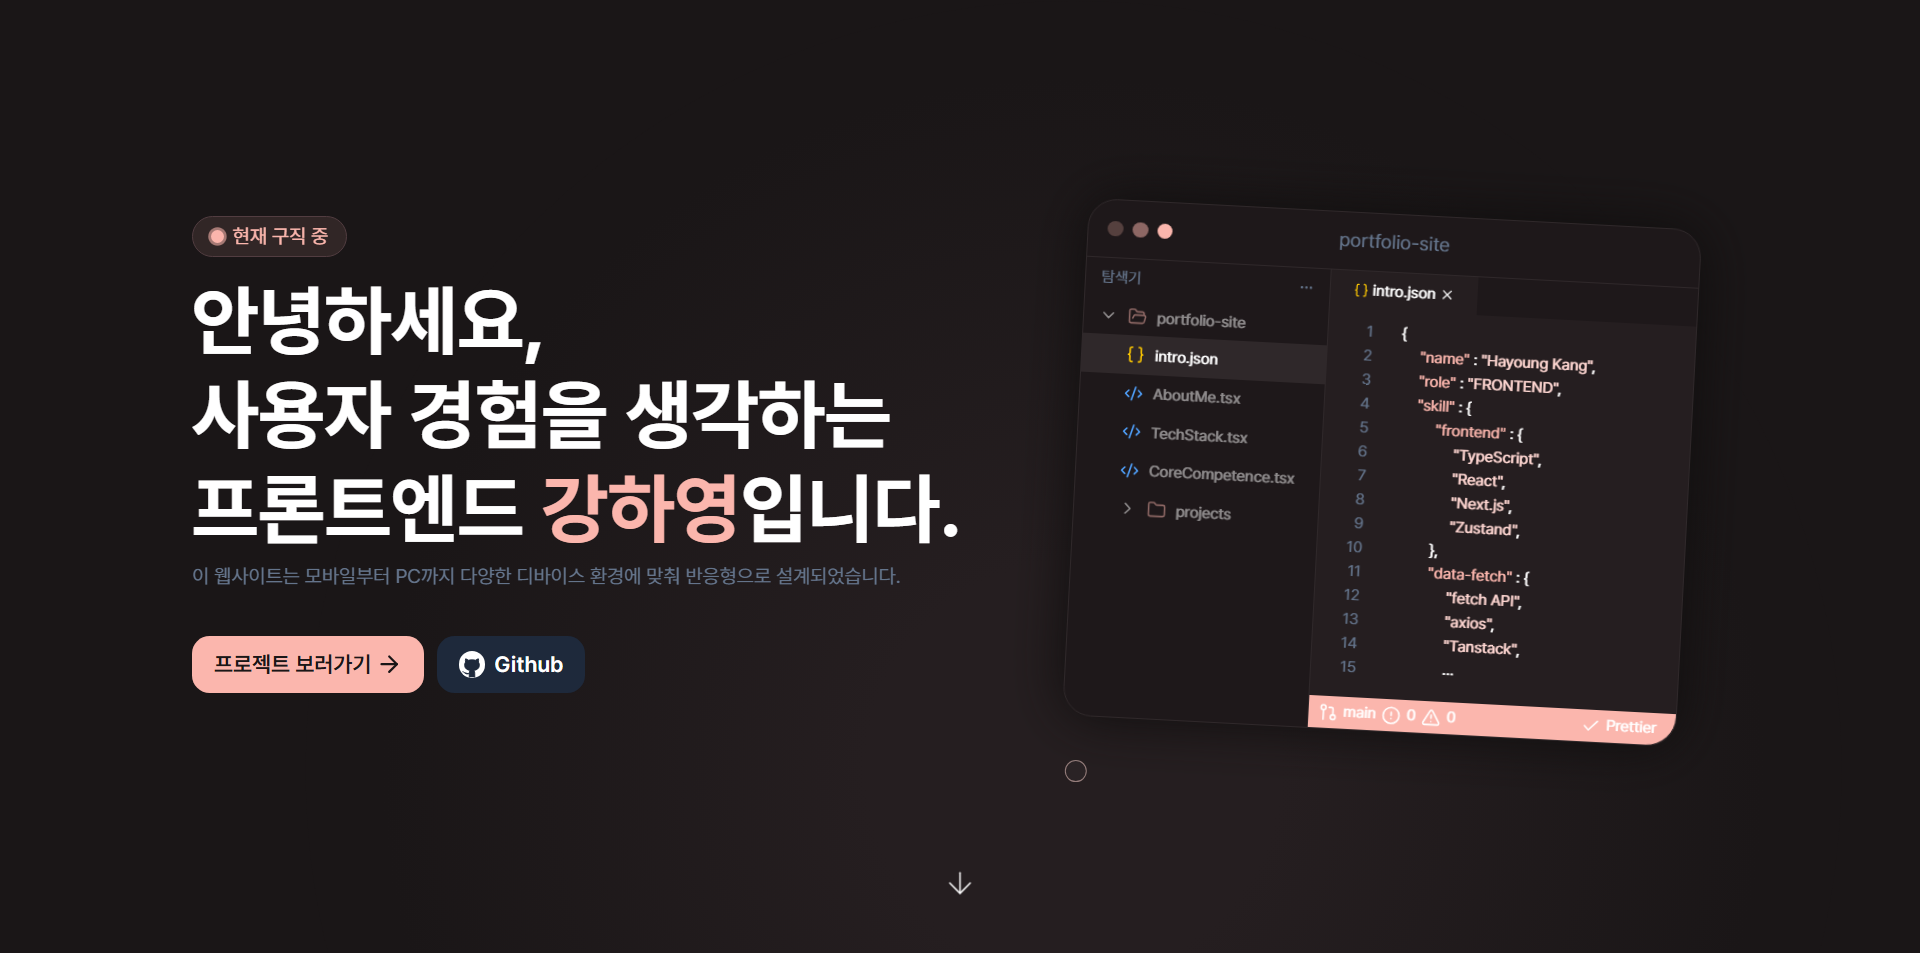
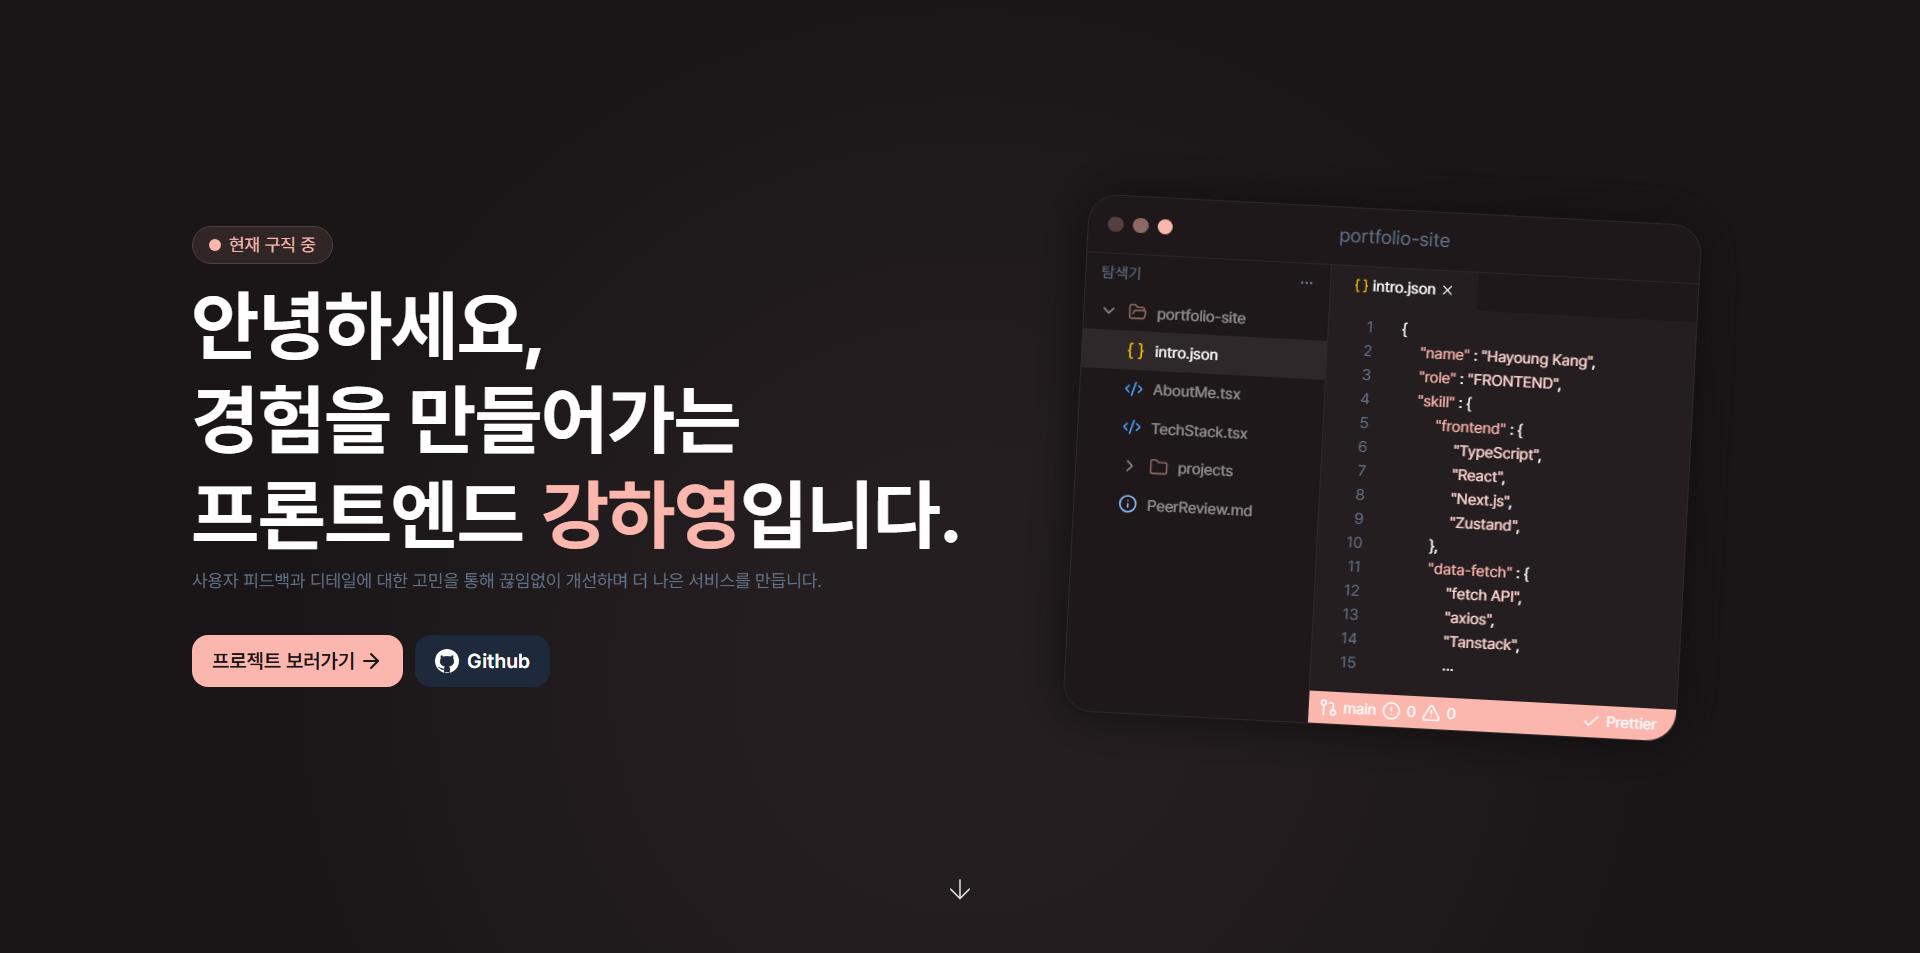
docs: 제목 부제목 변경

diff --git a/src/components/atoms/Title.tsx b/src/components/atoms/Title.tsx
@@ -5,7 +5,7 @@ export default function Title() {
     const speed = 40;
 
     const title1 = useHangulMotion("안녕하세요,", { speed });
-    const title2 = useHangulMotion("사용자 경험을 생각하는", { speed });
+    const title2 = useHangulMotion("경험을 만들어가는", { speed });
     const title3 = useHangulMotion("프론트엔드 ", { speed });
     const title4 = useHangulMotion("강하영", { speed });
     const title5 = useHangulMotion("입니다.", { speed });
@@ -33,11 +33,11 @@ export default function Title() {
         <>
             <div className="relative">
                 <h1 className="text-gray700">안녕하세요,</h1>
-                <h1 className="text-gray700">사용자 경험을 생각하는</h1>
+                <h1 className="text-gray700">경험을 만들어가는</h1>
                 <h1 className="text-gray700">프론트엔드 강하영입니다.</h1>
                 <p className="mt-2 lg:w-[47vw] xl:w-[40vw] text-gray1000/0">
-                    사용자 피드백과 고민을 통해 끊임없이 개선하며 더 나은
-                    서비스를 만들어갑니다.
+                    사용자 피드백과 디테일에 대한 고민을 통해 끊임없이 개선하며
+                    더 나은 서비스를 만듭니다.
                 </p>
                 <div className="absolute top-0">
                     <h1>{title1.displayText}</h1>
@@ -48,8 +48,8 @@ export default function Title() {
                         {title5.displayText}
                     </h1>
                     <p className="mt-2 lg:w-[47vw] xl:w-[40vw] text-sub animate__animated animate__fadeInUp animate__delay-2s">
-                        사용자 피드백과 고민을 통해 끊임없이 개선하며 더 나은
-                        서비스를 만들어갑니다.
+                        사용자 피드백과 디테일에 대한 고민을 통해 끊임없이
+                        개선하며 더 나은 서비스를 만듭니다.
                     </p>
                 </div>
             </div>
